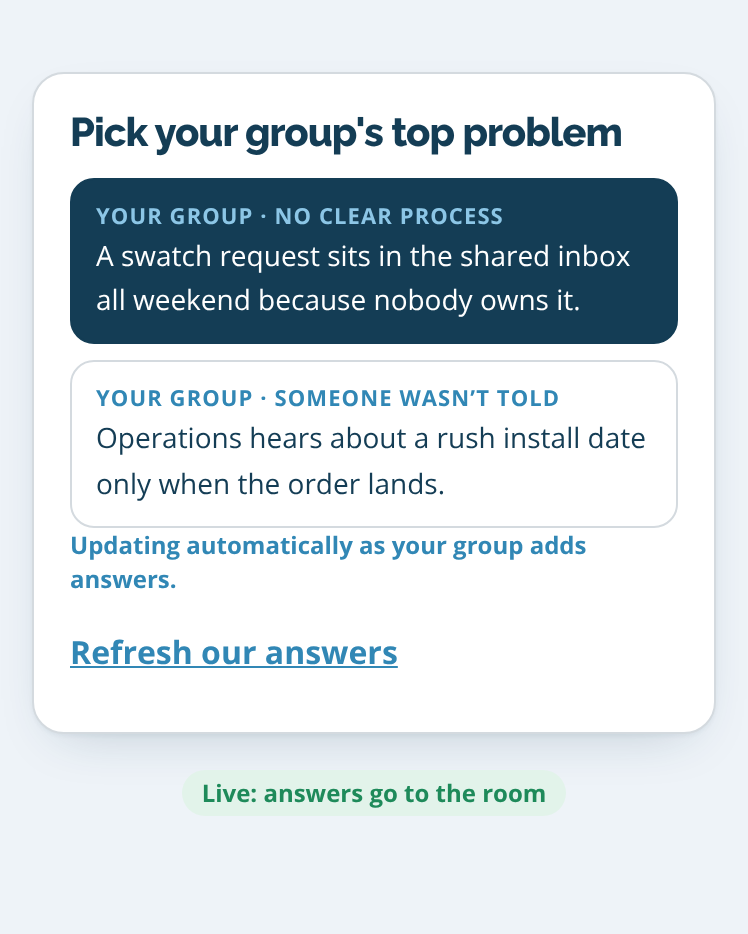
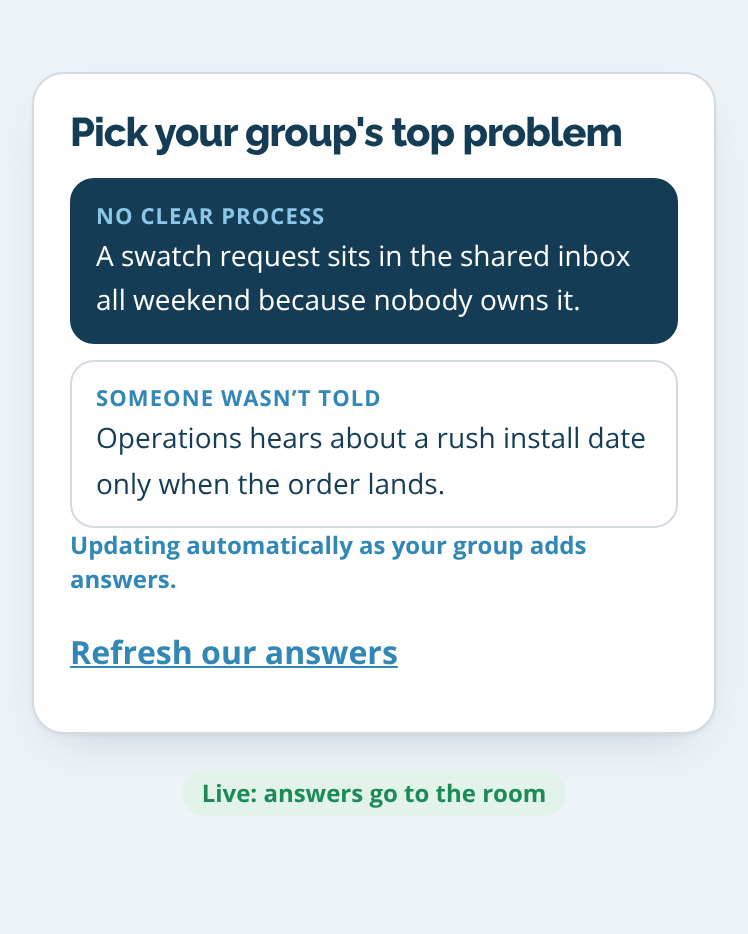
Step 3 is "Design the flow", with room for their own words
- "When does the problem start?" is now free text instead of ten fixed
  triggers. Groups describe what kicks it off in their own words.
- "What should happen automatically?" and "How will we know it worked?"
  keep their options and each gain an optional custom field, so a group
  is never stuck when the list doesn't cover what they mean.
- A custom action carries all the way through: it appears as its own
  sortable part in step 4 (human / robot / both) and in the proposal
  and on the wall, rather than being dropped after step 3.
- The step is renamed Design the flow, in the heading, the step rail
  and the button that leads into it.
- The proposal and the wall now read "Starts when: <their words>". The
  wall used to lowercase the whole trigger, which would have mangled
  HubSpot, Acumatica and anyone's name now that people type it.
- Regenerated the five slide screenshots: step 3 looks different and
  the rail is five wide, not six.

Claude-Session: https://claude.ai/code/session_01Hr7wMfKYoBeYjmoic14ePz

Changed region(s): [[0.123, 0.4036, 0.738, 0.4347], [0.123, 0.2173, 0.6765, 0.2484]]

diff --git a/curran/breakout.html b/curran/breakout.html
@@ -153,30 +153,35 @@
       <button class="linkbtn" id="refresh" type="button" style="margin-top:8px">Refresh our answers</button>
       <textarea id="prob" hidden aria-hidden="true"></textarea>
     </div>
-    <div class="navrow"><button class="btn ghost" type="button" data-go="1">Back</button><button class="btn navy" type="button" data-go="3" id="to3">Next: fix it</button></div>
+    <div class="navrow"><button class="btn ghost" type="button" data-go="1">Back</button><button class="btn navy" type="button" data-go="3" id="to3">Next: design the flow</button></div>
   </section>
 
   <!-- Step 3 -->
   <section id="s3" class="pane" hidden>
     <div class="card">
-      <div class="eyebrow">Step 3 · Design the fix</div>
-      <h2>Design the fix</h2>
-      <div class="howto"><div class="k">How to do this step</div><p>Describe your fix as a recipe in four parts: <b>when</b> it starts, <b>what happens automatically</b>, <b>who is in charge</b>, and <b>how you'd know it worked</b>. Just tap the options that fit &mdash; you're not writing software.</p>
+      <div class="eyebrow">Step 3 · Design the flow</div>
+      <h2>Design the flow</h2>
+      <div class="howto"><div class="k">How to do this step</div><p>Describe the flow as a recipe in four parts: <b>when</b> it starts, <b>what happens automatically</b>, <b>who is in charge</b>, and <b>how you'd know it worked</b>. Just tap the options that fit &mdash; you're not writing software.</p>
       <ul>
         <li><span class="eg">When a swatch request comes in &rarr; it's assigned to a named rep and they get a reminder &rarr; Sales is in charge &rarr; we'd know it worked because no request sits unanswered.</span></li>
       </ul></div>
       <div class="probbox" id="probbox"><div class="k">The problem you're fixing</div><p id="probtext"></p><button class="linkbtn" type="button" data-go="2">Change it</button></div>
       <p class="small" style="margin-top:4px">Think about what should happen, step by step, so this problem stops happening.</p>
-      <div class="step" style="margin-top:14px"><span class="n">1</span><h3>When does the problem start? <span class="small">(pick all that apply)</span></h3></div>
-      <div class="chips" id="trig"></div>
+      <div class="step" style="margin-top:14px"><span class="n">1</span><h3>When does the problem start?</h3></div>
+      <p class="small" style="margin-top:2px">In your own words — what kicks it off?</p>
+      <input type="text" id="trigtext" maxlength="160" placeholder="e.g. a designer emails asking for three swatches">
       <div class="step" style="margin-top:18px"><span class="n">2</span><h3>What should happen automatically? <span class="small">(pick all that apply)</span></h3></div>
       <div class="chips" id="act"></div>
+      <label class="f" for="actother">Something else it should do? <span class="small">(optional — in your own words)</span></label>
+      <input type="text" id="actother" maxlength="140" placeholder="e.g. flag the order for the install team">
       <div class="step" style="margin-top:18px"><span class="n">3</span><h3>Which team is in charge of it? <span class="small">(pick all that apply)</span></h3></div>
       <div class="chips" id="own"></div>
       <label class="f" for="human">What should a person still do? <span class="small">(optional)</span></label>
       <input type="text" id="human" maxlength="120" placeholder="e.g. call the customer to talk through the project">
       <div class="step" style="margin-top:18px"><span class="n">4</span><h3>How will we know it worked? <span class="small">(pick all that apply)</span></h3></div>
       <div class="chips" id="meas"></div>
+      <label class="f" for="measother">Another way you’d know? <span class="small">(optional — in your own words)</span></label>
+      <input type="text" id="measother" maxlength="140" placeholder="e.g. no designer waits more than a day for a swatch">
     </div>
     <div class="navrow"><button class="btn ghost" type="button" data-go="2">Back</button><button class="btn navy" type="button" data-go="4" id="to4">Next: human or robot</button></div>
   </section>
@@ -248,7 +253,7 @@
   var S = (function () { try { return JSON.parse(localStorage.getItem(KEY) || '{}'); } catch (e) { return {}; } })();
   function save() { try { localStorage.setItem(KEY, JSON.stringify(S)); } catch (e) {} if (window.syncQueue) window.syncQueue(); }
   var $ = function (id) { return document.getElementById(id); };
-  var LABELS = ['Find', 'Pick', 'Fix', 'Human / robot', 'Proposal'];
+  var LABELS = ['Find', 'Pick', 'Flow', 'Human / robot', 'Proposal'];
 
   /* Steps */
   function stepsNav() {
@@ -382,16 +387,17 @@
   };
   var MEAS = { speed:'Customers hear back faster', untouched:'No request sits unanswered', owned:'Every customer has someone in charge', nextstep:'Every project has a clear next step', handoff:'Nobody has to ask the customer twice', repeat:'More customers come back', source:'We can see which marketing led to the sale' };
   function chips(el, map) { el.innerHTML = Object.keys(map).map(function (k) { return '<button class="chip" data-v="' + k + '">' + BL.esc(map[k].t || map[k]) + '</button>'; }).join(''); }
-  var trig = $('trig'), act = $('act'), own = $('own'), meas = $('meas'), human = $('human');
-  chips(trig, TRIG); chips(act, ACT); chips(meas, MEAS);
+  var act = $('act'), own = $('own'), meas = $('meas'), human = $('human');
+  var trigtext = $('trigtext'), actother = $('actother'), measother = $('measother');
+  chips(act, ACT); chips(meas, MEAS);
   own.innerHTML = BL.config.teams.filter(function (t) { return t !== 'Other'; }).map(function (t) { return '<button class="chip" data-v="' + BL.esc(t) + '">' + BL.esc(t) + '</button>'; }).join('');
   function setChoice(el, v) { el.querySelectorAll('[data-v]').forEach(function (b) { b.setAttribute('aria-pressed', [].concat(v || []).indexOf(b.getAttribute('data-v')) > -1 ? 'true' : 'false'); }); }
-  function fixVal() { return { trig: BL.val(trig, true), act: BL.val(act, true), owner: BL.val(own, true), human: human.value.trim(), meas: BL.val(meas, true) }; }
+  function fixVal() { return { trig: [], trigText: trigtext.value.trim(), act: BL.val(act, true), actOther: actother.value.trim(), owner: BL.val(own, true), human: human.value.trim(), meas: BL.val(meas, true), measOther: measother.value.trim() }; }
   function arr(x) { return [].concat(x || []).filter(Boolean); }
   function saveFix() { S.fix = fixVal(); save(); }
-  BL.choice(trig, { multi: true, onChange: saveFix }); BL.choice(act, { multi: true, onChange: saveFix }); BL.choice(own, { multi: true, onChange: saveFix }); BL.choice(meas, { multi: true, onChange: saveFix });
-  human.addEventListener('input', saveFix);
-  if (S.fix) { setChoice(trig, S.fix.trig); setChoice(act, S.fix.act); setChoice(own, S.fix.owner); setChoice(meas, S.fix.meas); human.value = S.fix.human || ''; }
+  BL.choice(act, { multi: true, onChange: saveFix }); BL.choice(own, { multi: true, onChange: saveFix }); BL.choice(meas, { multi: true, onChange: saveFix });
+  [human, trigtext, actother, measother].forEach(function (el) { el.addEventListener('input', saveFix); });
+  if (S.fix) { setChoice(act, S.fix.act); setChoice(own, S.fix.owner); setChoice(meas, S.fix.meas); human.value = S.fix.human || ''; trigtext.value = S.fix.trigText || ''; actother.value = S.fix.actOther || ''; measother.value = S.fix.measOther || ''; }
 
   /* Step 4: human or robot */
   S.sort = S.sort || {};
@@ -402,6 +408,7 @@
   instead.value = S.instead || ''; instead.addEventListener('input', function () { S.instead = instead.value.trim(); save(); });
   function parts() {
     var f = S.fix || fixVal(), list = (f.act || []).map(function (a) { return { id: a, t: ACT[a].t, d: 'robot' }; });
+    if (f.actOther) list.push({ id: 'actother', t: f.actOther, d: 'robot' });
     var ow = arr(f.owner).join(', ');
     if (ow || f.human) list.push({ id: 'person', t: (ow || 'A person') + (f.human ? ': ' + f.human : ''), d: 'human' });
     return list;
@@ -428,8 +435,8 @@
   }
   function proposal() {
     var f = S.fix || fixVal(), p = parts();
-    return { kind: 'proposal', _id: S.propId || '', title: S.title || '', problem: S.problem || '', trig: arr(f.trig), trigText: arr(f.trig).map(function (t) { return TRIG[t]; }).join(', or '), act: f.act || [], actText: (f.act || []).map(function (a) { return ACT[a].t; }),
-      owner: arr(f.owner).join(', '), human: f.human || '', meas: arr(f.meas), measText: arr(f.meas).map(function (m) { return MEAS[m]; }).join(' · '),
+    return { kind: 'proposal', _id: S.propId || '', title: S.title || '', problem: S.problem || '', trig: arr(f.trig), trigText: f.trigText || '', act: f.act || [], actText: (f.act || []).map(function (a) { return ACT[a].t; }).concat(f.actOther ? [f.actOther] : []),
+      owner: arr(f.owner).join(', '), human: f.human || '', meas: arr(f.meas), measText: arr(f.meas).map(function (m) { return MEAS[m]; }).concat(f.measOther ? [f.measOther] : []).join(' · '),
       sorts: p.map(function (x) { return { t: x.t, c: S.sort[x.id] || x.d }; }), minutes: +(S.mins != null ? S.mins : mins.value), instead: S.instead || '', phases: phases(f).map(function (x) { return x.id; }) };
   }
   function renderProp() {
@@ -437,7 +444,7 @@
     var ph = phases(v);
     $('prop').innerHTML = '<div class="k">' + BL.esc(g ? BL.groupName(g) : 'Your group') + ' · Friction to Flow proposal</div><h2 style="margin-top:6px">' + (v.title ? BL.esc(v.title) : 'Our proposal') + '</h2>' +
       '<div class="sec"><div class="k">The problem</div><p>' + E(v.problem) + '</p></div>' +
-      '<div class="sec"><div class="k">Our fix</div><p><b>When</b> ' + E(v.trigText) + '</p><ul>' + (v.actText.length ? v.actText.map(function (t) { return '<li>' + BL.esc(t) + '</li>'; }).join('') : '<li class="empty">the system’s part is not set yet</li>') + '</ul><p style="margin-top:6px"><b>In charge:</b> ' + E(v.owner + (v.human ? ': ' + v.human : '')) + '</p></div>' +
+      '<div class="sec"><div class="k">Our fix</div><p><b>Starts when:</b> ' + E(v.trigText) + '</p><ul>' + (v.actText.length ? v.actText.map(function (t) { return '<li>' + BL.esc(t) + '</li>'; }).join('') : '<li class="empty">the system’s part is not set yet</li>') + '</ul><p style="margin-top:6px"><b>In charge:</b> ' + E(v.owner + (v.human ? ': ' + v.human : '')) + '</p></div>' +
       '<div class="sec"><div class="k">How it would work</div><ul>' + v.sorts.map(function (s) { return '<li>' + BL.esc(s.t) + ' · <b>' + s.c + '</b></li>'; }).join('') + '</ul></div>' +
       '<div class="sec"><div class="k">Why it matters</div><p><b>We’ll know it works when:</b> ' + E(v.measText) + '</p><p><b>Time back:</b> about ' + fmt(v.minutes).toLowerCase() + (v.instead ? ', for ' + BL.esc(v.instead) : '') + '</p></div>' +
       (ph.length ? '<div class="sec"><div class="k">Already on the plan</div>' + ph.map(function (p) { return '<span class="tagp">' + BL.esc(p.name) + '</span>'; }).join('') + '</div>' : '');
@@ -521,7 +528,7 @@
     pulling = true;
     S.problem = d.problem || ''; S.fix = d.fix || null; S.sort = d.sort || {}; if (d.mins != null) S.mins = d.mins; S.instead = d.instead || ''; S.title = d.title || '';
     prob.value = S.problem; markPicks();
-    var f = S.fix || {}; setChoice(trig, f.trig); setChoice(act, f.act); setChoice(own, f.owner); setChoice(meas, f.meas); human.value = f.human || '';
+    var f = S.fix || {}; setChoice(act, f.act); setChoice(own, f.owner); setChoice(meas, f.meas); human.value = f.human || ''; trigtext.value = f.trigText || ''; actother.value = f.actOther || ''; measother.value = f.measOther || '';
     if (S.mins != null) { mins.value = S.mins; minsOut.textContent = fmt(+S.mins); } instead.value = S.instead; title.value = S.title;
     $('probtext').textContent = S.problem || 'No problem picked yet. Tap “Change it” to choose one.';
     if (S.step === 4) renderSorter(); if (S.step === 5) renderProp();

diff --git a/step3test.js b/step3test.js
@@ -1,0 +1,44 @@
+const { chromium } = require('playwright');
+(async () => {
+  const b = await chromium.launch();
+  const p = await b.newPage({ viewport: { width: 390, height: 1400 }, deviceScaleFactor: 2 });
+  const errs = [];
+  p.on('pageerror', e => errs.push(e.message));
+  await p.goto('file://' + process.cwd() + '/curran/breakout.html?demo=1', { waitUntil: 'domcontentloaded' });
+  await p.waitForTimeout(700);
+  await p.evaluate(() => {
+    BL.group = () => 'a';
+    BL.submit = () => Promise.resolve();
+    const ga = document.getElementById('groupAsk'); if (ga) { ga.hidden = true; ga.style.display = 'none'; }
+    document.querySelector('[data-go="3"]').click();
+  });
+  await p.waitForTimeout(500);
+
+  console.log('step rail:', JSON.stringify(await p.evaluate(() => [...document.querySelectorAll('#steps button')].map(b => b.textContent.trim()))));
+  console.log('step 3 heading:', await p.evaluate(() => document.querySelector('#s3 h2').textContent));
+  console.log('trigger is free text:', await p.evaluate(() => !!document.getElementById('trigtext') && !document.getElementById('trig')));
+  console.log('custom action field:', await p.evaluate(() => !!document.getElementById('actother')));
+  console.log('custom measure field:', await p.evaluate(() => !!document.getElementById('measother')));
+
+  // fill everything in, including the custom entries
+  await p.fill('#trigtext', 'A designer emails asking for three swatches');
+  await p.evaluate(() => document.querySelector('#act [data-v]').click());
+  await p.fill('#actother', 'Flag the order for the install team');
+  await p.evaluate(() => document.querySelector('#own [data-v]').click());
+  await p.fill('#measother', 'No designer waits more than a day');
+  await p.evaluate(() => document.querySelector('#meas [data-v]').click());
+  await p.waitForTimeout(300);
+
+  // step 4 should offer the custom action as a sortable part
+  await p.evaluate(() => document.querySelector('[data-go="4"]').click());
+  await p.waitForTimeout(400);
+  console.log('\nstep 4 sortable parts:', JSON.stringify(await p.evaluate(() => [...document.querySelectorAll('#sorter .t')].map(x => x.textContent))));
+
+  // step 5 proposal should show the free text and both custom entries
+  await p.evaluate(() => document.querySelector('[data-go="5"]').click());
+  await p.waitForTimeout(500);
+  const prop = await p.evaluate(() => document.getElementById('prop').innerText);
+  console.log('\n--- proposal ---\n' + prop);
+  console.log(errs.length ? 'ERRORS: ' + errs.join(' | ') : 'no js errors');
+  await b.close();
+})();

diff --git a/curran/wall.html b/curran/wall.html
@@ -280,7 +280,7 @@
       var cards = props.map(function (r) { var p = r.payload, k = key(r);
         return '<article class="pc' + (k === top ? ' win' : '') + '"><div class="votes"><b>' + (vc[k] || 0) + '</b><span>votes</span></div><div class="g">' + E(BL.groupName(r.group) || 'A group') + '</div><h3>' + E(p.title || p.problem) + '</h3>' +
           (p.title ? '<div class="sec"><span class="g">The problem</span>' + E(p.problem) + '</div>' : '') +
-          '<div class="sec"><span class="g">Our fix</span>When ' + E(p.trigText).toLowerCase() + ':<ul>' + (p.actText || []).map(function (t) { return '<li>' + E(t) + '</li>'; }).join('') + '</ul>In charge: ' + E(p.owner) + (p.human ? ': ' + E(p.human) : '') + '</div>' +
+          '<div class="sec"><span class="g">Our fix</span>Starts when: ' + E(p.trigText) + '<ul>' + (p.actText || []).map(function (t) { return '<li>' + E(t) + '</li>'; }).join('') + '</ul>In charge: ' + E(p.owner) + (p.human ? ': ' + E(p.human) : '') + '</div>' +
           '<div class="sec"><span class="g">Why it matters</span>' + E(p.measText) + (p.minutes ? ' · about ' + fmt(p.minutes) + ' back' : '') + (p.instead ? ', for ' + E(p.instead) : '') + '</div>' +
           planHTML(p) +
           '<button class="x" data-hide="' + E(k) + '" aria-label="Hide">×</button></article>'; }).join('');
